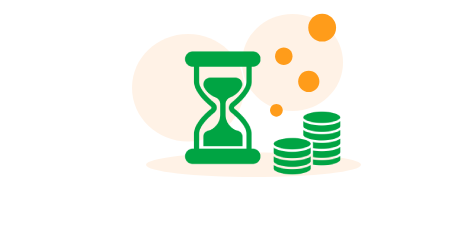
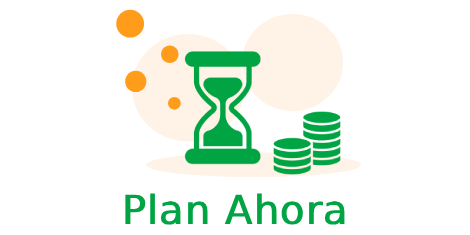
imagen de plan ahora 2

diff --git a/index.html b/index.html
@@ -243,6 +243,12 @@
             </button>
         </div>
         <div class="image-container">
+            <img class="image" src="./plan_ahora_2.png" alt="Imagen 28.2" />
+            <button class="copy-button" onclick="copyImageURL(this.previousElementSibling.src)">
+                Copiar URL
+            </button>
+        </div>
+        <div class="image-container">
             <img class="image" src="./plan_ahora_3.png" alt="Imagen 28" />
             <button class="copy-button" onclick="copyImageURL(this.previousElementSibling.src)">
                 Copiar URL
